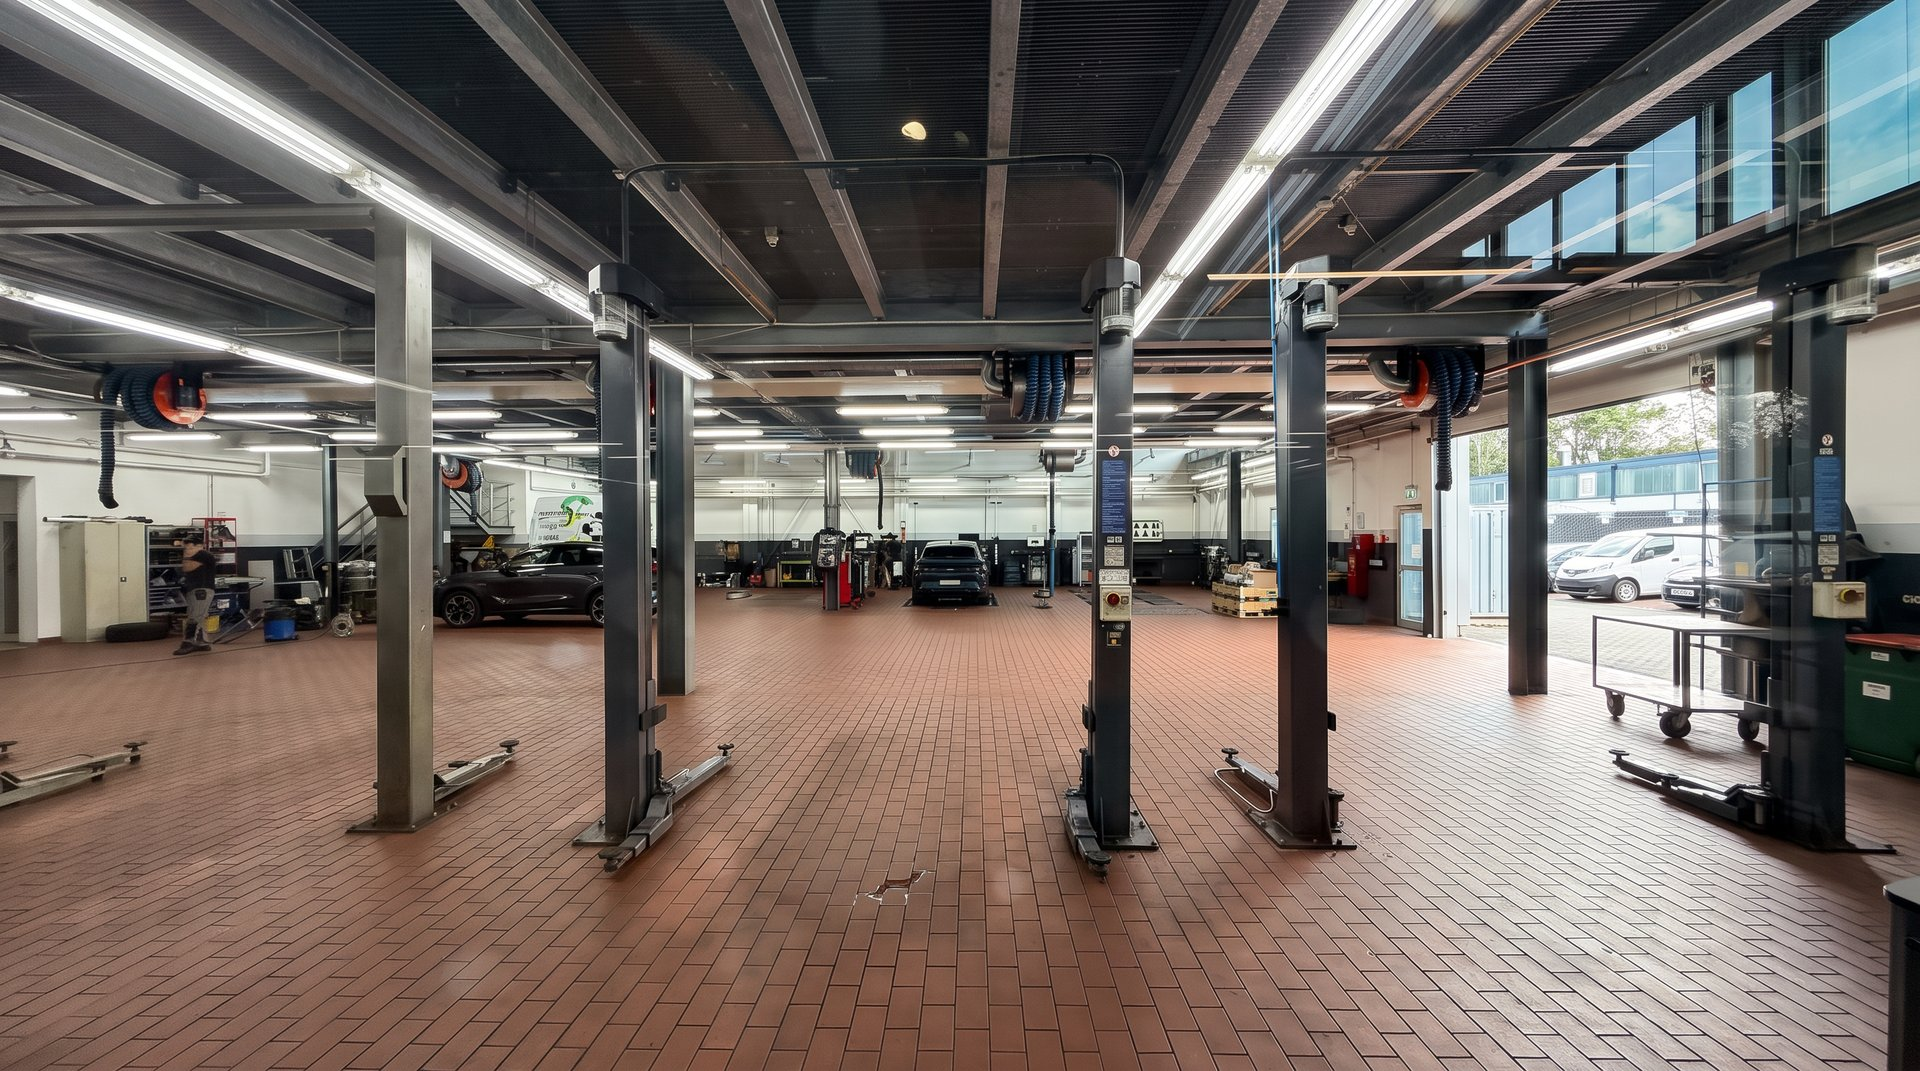
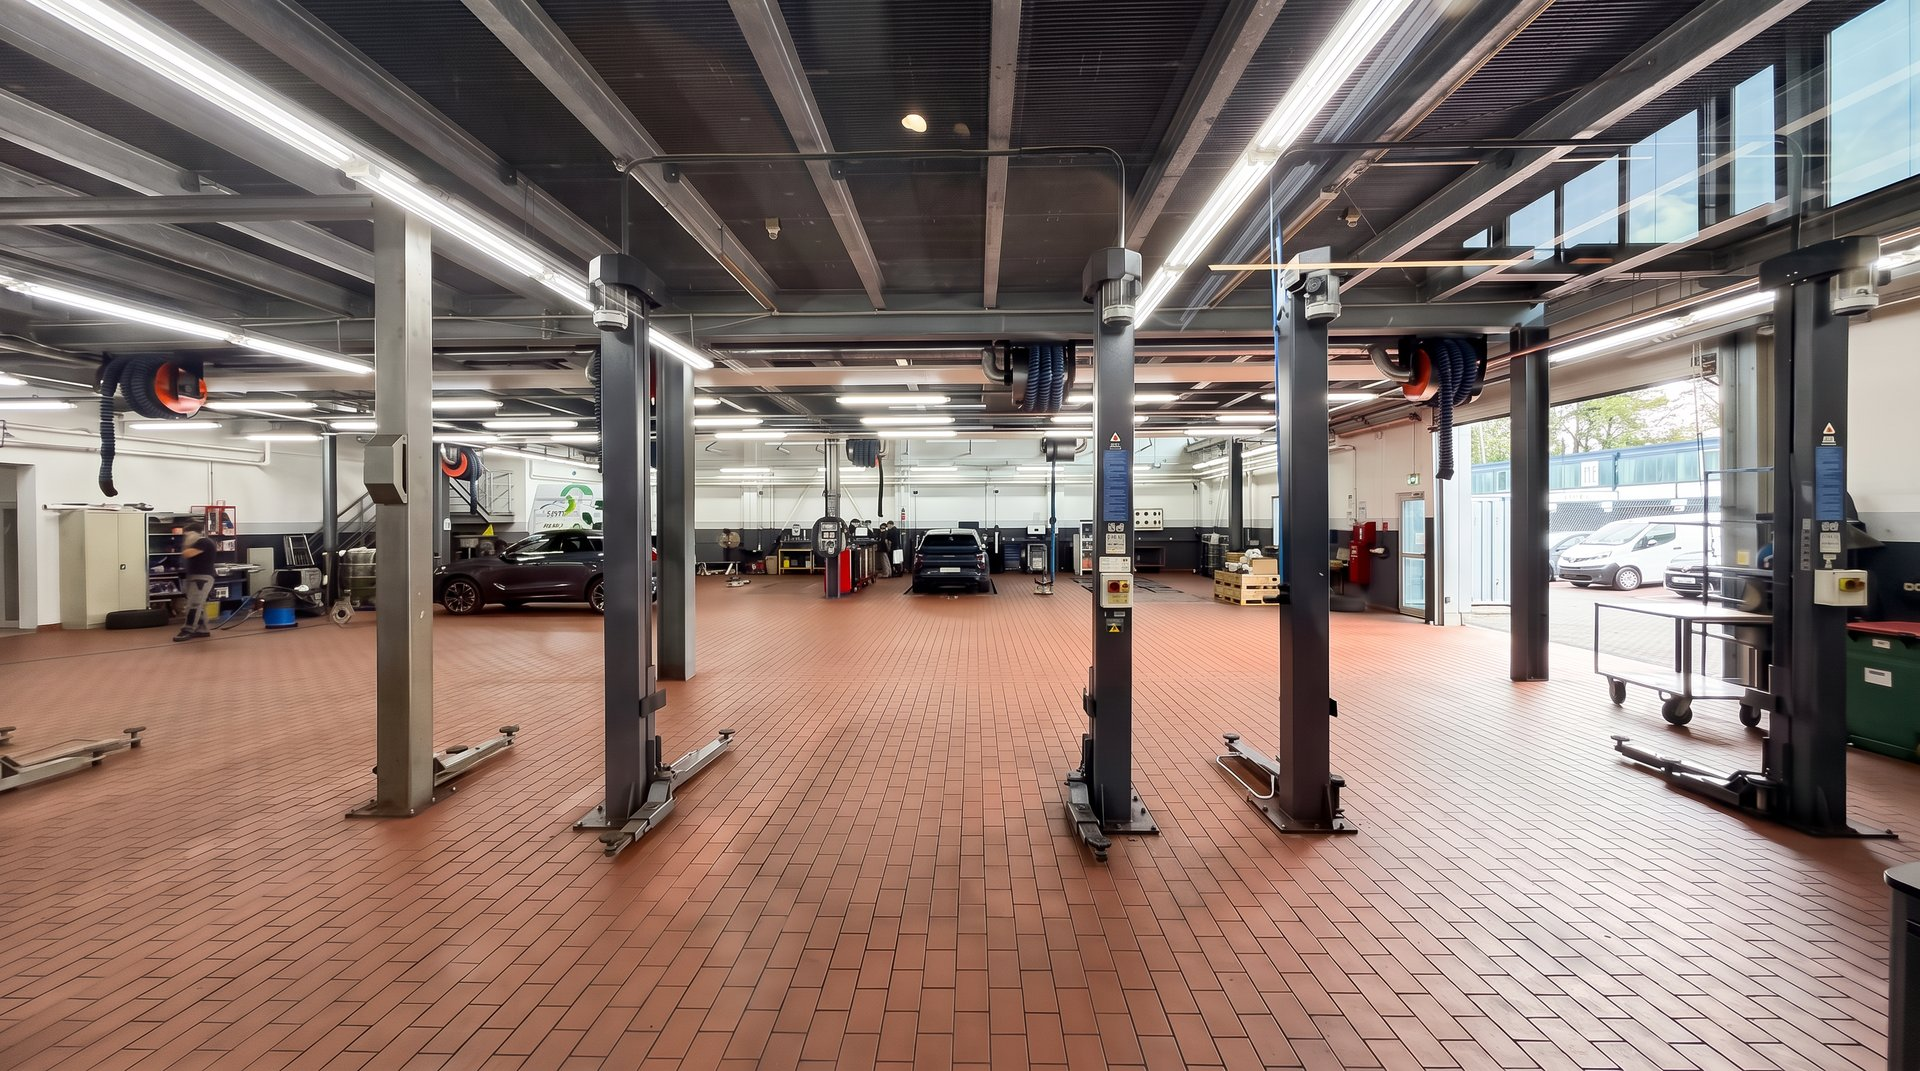
Werkstattfoto: helleres, saubereres Ergebnis + Standard für Foto-Nachbearbeitung
Zweite Korrekturrunde auf das echte Werkstattfoto: Boden gleichmäßig
sauber, Dachlinie/Hebebühnen-Säulen exakt gerade ausgerichtet, insgesamt
hellere, gleichmäßigere Belichtung (Apple-Campus-Look).

Diesen Standard als Regel in CLAUDE.md festgehalten, damit er für alle
künftig verwendeten echten Standort-/Showroom-Fotos automatisch gilt.

Claude-Session: https://claude.ai/code/session_01BW4FCw33MiAobpcCX7pnXm

diff --git a/CLAUDE.md b/CLAUDE.md
@@ -13,3 +13,24 @@ Das Nummernschild des Fahrzeugs muss immer **„AUTOEMOTION"** zeigen (sauber
 lesbar, wie ein reguläres Kennzeichen gestaltet), keine erfundene
 Zulassungsnummer. Kein verwaschener/unleserlicher EU-Sternenkreis oder
 sonstiger Schriftmatsch auf dem Schild – sauberes, cleanes Design.
+
+## Bearbeitung echter Standort-/Showroom-Fotos
+
+Wenn echte Fotos vom Auto Emotion Standort (Werkstatt, Showroom, Fassade
+etc.) für die Website aufbereitet werden, immer mit Artlist (Bild-zu-Bild)
+nachbearbeiten – Ziel ist ein heller, cleaner „Apple-Campus"-Look:
+
+- **Boden komplett sauber**: alle Flecken, Verfärbungen und Gebrauchsspuren
+  entfernen, gleichmäßige Bodenfarbe im gesamten Bild.
+- **Geometrie korrigieren**: Horizontlinien/Dachkanten exakt horizontal,
+  senkrechte Elemente (Säulen, Hebebühnen, Türrahmen) exakt vertikal
+  ausrichten – Weitwinkel-Verzerrung rausrechnen.
+- **Belichtung**: insgesamt heller, gleichmäßig ausgeleuchtet, keine harten
+  Schatten oder dunklen Ecken, neutral-helle Farbgebung statt warmstichig.
+- Dabei **niemals reale Objekte, Personen, Fahrzeuge oder das Layout des
+  Raums verändern** – nur Geometrie, Bodenreinigung und Belichtung, das
+  Foto muss ein echtes, unverfälschtes Abbild des Orts bleiben.
+
+Bei Bedarf mehrere Korrektur-Durchgänge (z. B. erst Geometrie/Belichtung,
+dann gezielt nur noch den Boden nachschärfen), bis das Ergebnis diesem
+Standard entspricht, bevor es auf der Seite verwendet wird.
